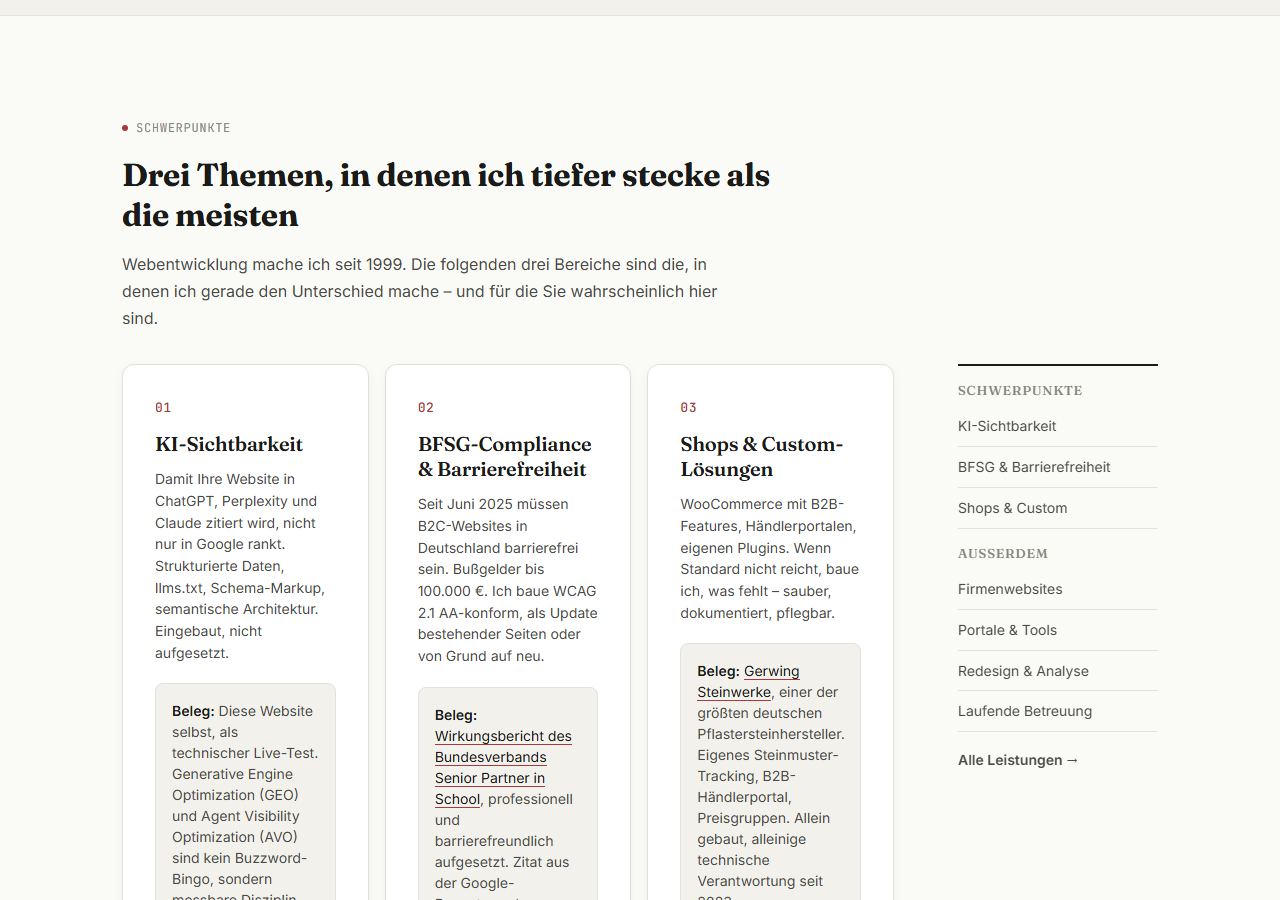
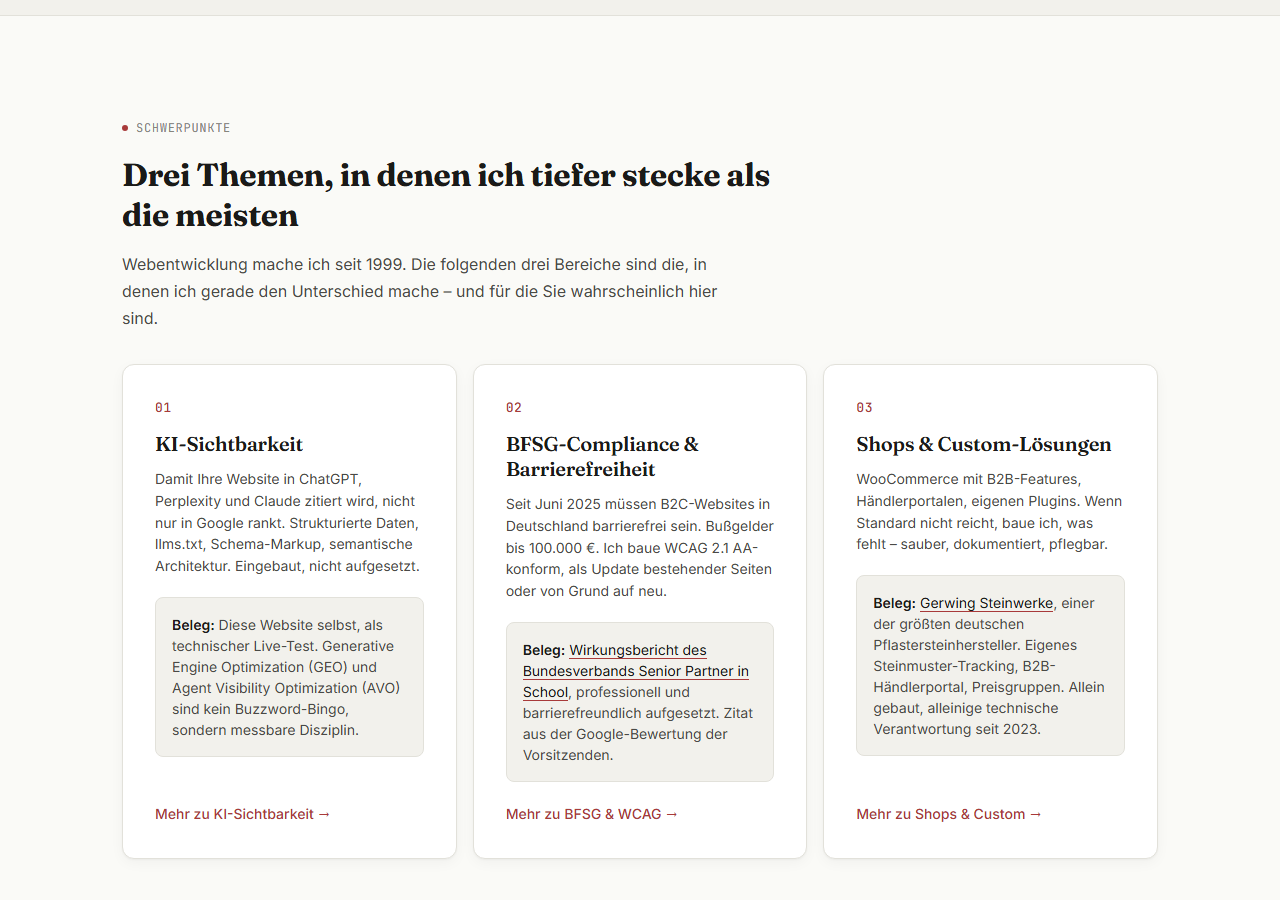
fix(focus): Schwerpunkte-Layout entzerrt, Cards in voller Drittel-Breite (Issue #24)
Layout-Defizit aus QA-Vergleich Issue #18 / Finding F2 behoben.

Vorher: 4-Spalten-Layout (3 Focus-Cards + Sticky-Sidebar .services-quicknav rechts).
Cards à ~246 px bei 1280 px Breite, Body-Copy gequetscht.

Nachher (analog Claude-Referenz):
- 3 Focus-Cards in voller Drittel-Breite (~395 px bei 1280 px)
- Neuer Block .services-extras unter den Cards (2 Spalten):
  - links: "Außerdem"-Quicknav (4 Sub-Themen + "Alle Leistungen")
  - rechts: "Standard bei jedem Projekt" als saubere Liste
- Quicknav-Teil "Schwerpunkte" entfernt (war redundant zu den Cards selbst)
- Standards von Pill-Strip auf vertikale Liste umgestellt
- Mobile (≤768): Extras-Block stapelt auf 1 Spalte

Geprüft:
- DE und EN parallel umgestellt (index.html, en/index.html)
- design-reference-compare-Spec für #leistungen grün
- Neue Regression-Spec tests/focus-extras-check.spec.ts: 2 Tests grün
  (Layout-Struktur, Card-Breiten ≥ 300 px, Mobile-Stacking)
- focus-actual.png aktualisiert

Changed region(s): [[0.125, 0.4667, 0.875, 1.0], [0.6875, 0.6533, 0.875, 0.8711], [0.75, 0.4044, 0.8438, 0.4356]]

diff --git a/tests/focus-extras-check.spec.ts b/tests/focus-extras-check.spec.ts
@@ -1,0 +1,76 @@
+import { test, expect } from '@playwright/test';
+
+test.use({ viewport: { width: 1280, height: 1400 } });
+
+test('focus-extras-block rendert mit 2 Spalten und korrekten Inhalten', async ({ page }) => {
+  await page.addInitScript(() => {
+    const mark = () => {
+      document.querySelectorAll('.services-intro h2').forEach(h => {
+        (h as HTMLElement).dataset.typed = '1';
+      });
+    };
+    document.addEventListener('DOMContentLoaded', mark);
+  });
+  await page.goto('http://localhost:5500/index.html', { waitUntil: 'networkidle' });
+  await page.evaluate(() => {
+    document.documentElement.classList.remove('funnel-active');
+    const f = document.getElementById('funnel');
+    if (f) (f as HTMLElement).style.display = 'none';
+    const reopen = document.getElementById('funnel-reopen');
+    if (reopen) (reopen as HTMLElement).hidden = true;
+    document.querySelectorAll('.focus-card,.focus-grid,.services-extras').forEach(el => el.classList.add('is-visible'));
+  });
+
+  const extras = page.locator('.services-extras');
+  await expect(extras).toBeVisible();
+
+  // 2 Kindelemente: nav.services-quicknav + div.standards-strip
+  const children = extras.locator('> *');
+  await expect(children).toHaveCount(2);
+  await expect(extras.locator('.services-quicknav')).toBeVisible();
+  await expect(extras.locator('.standards-strip')).toBeVisible();
+
+  // Quicknav enthaelt 4 "Ausserdem"-Links + 1 "Alle Leistungen"-Link
+  await expect(extras.locator('.services-quicknav h3')).toHaveText('Außerdem');
+  await expect(extras.locator('.services-quicknav a')).toHaveCount(5);
+
+  // Standards-Liste mit 5 Items
+  await expect(extras.locator('.standards-list li')).toHaveCount(5);
+
+  // Layout-Check: extras-Block hat 2 Spalten (Quicknav links, Standards rechts)
+  const navBox = await extras.locator('.services-quicknav').boundingBox();
+  const stdBox = await extras.locator('.standards-strip').boundingBox();
+  expect(navBox && stdBox).toBeTruthy();
+  expect((stdBox!.x)).toBeGreaterThan(navBox!.x + navBox!.width / 2);
+
+  // Cards: 3 gleichbreite Spalten
+  const cards = page.locator('.focus-card');
+  await expect(cards).toHaveCount(3);
+  const widths = await Promise.all([0,1,2].map(async i => (await cards.nth(i).boundingBox())!.width));
+  // alle Cards in 5px Toleranz gleich breit
+  expect(Math.max(...widths) - Math.min(...widths)).toBeLessThan(5);
+  // Cards mindestens 300px breit (Anti-Pattern)
+  expect(widths[0]).toBeGreaterThan(300);
+
+});
+
+test('focus-extras-block stapelt mobil', async ({ page }) => {
+  await page.setViewportSize({ width: 600, height: 1400 });
+  await page.goto('http://localhost:5500/index.html', { waitUntil: 'networkidle' });
+  await page.evaluate(() => {
+    document.documentElement.classList.remove('funnel-active');
+    const f = document.getElementById('funnel');
+    if (f) (f as HTMLElement).style.display = 'none';
+  });
+  const extras = page.locator('.services-extras');
+  const navBox = await extras.locator('.services-quicknav').boundingBox();
+  const stdBox = await extras.locator('.standards-strip').boundingBox();
+  // gestapelt: Standards liegen UNTER Quicknav (y groesser)
+  expect(stdBox!.y).toBeGreaterThan(navBox!.y + navBox!.height - 10);
+
+  // Cards 1-Spalt
+  const cards = page.locator('.focus-card');
+  const c0 = await cards.nth(0).boundingBox();
+  const c1 = await cards.nth(1).boundingBox();
+  expect(c1!.y).toBeGreaterThan(c0!.y + c0!.height - 10);
+});

diff --git a/css/sections.css b/css/sections.css
@@ -235,33 +235,30 @@
 .services-intro h2 { margin-bottom: var(--space-md); }
 .services-intro p { color: var(--color-text-secondary); }
 
-.services-layout {
+.services-extras {
   display: grid;
-  grid-template-columns: 1fr 200px;
+  grid-template-columns: 1fr 1fr;
   gap: var(--space-3xl);
-  align-items: start;
+  margin-top: var(--space-2xl);
+  padding: var(--space-xl);
+  background: var(--color-bg-card);
+  border: 1px solid var(--color-border);
+  border-radius: 12px;
 }
 
-.services-quicknav {
-  position: sticky;
-  top: 80px;
-  border-top: 2px solid var(--color-text);
-  padding-top: var(--space-md);
-  display: flex;
-  flex-direction: column;
-}
-
-.services-quicknav h3 {
+.services-extras > * > h3 {
   font-size: var(--text-xs);
   text-transform: uppercase;
   letter-spacing: 0.06em;
   color: var(--color-text-light);
-  margin-bottom: var(--space-xs);
-  margin-top: var(--space-md);
+  margin: 0 0 var(--space-md);
   font-weight: 500;
 }
 
-.services-quicknav h3:first-child { margin-top: 0; }
+.services-quicknav {
+  display: flex;
+  flex-direction: column;
+}
 
 .services-quicknav a {
   font-size: var(--text-sm);
@@ -278,6 +275,7 @@
   border-bottom: none !important;
   margin-top: var(--space-xs);
   font-weight: 600;
+  color: var(--color-text) !important;
 }
 
 .services-section-heading {
@@ -287,27 +285,22 @@
 
 .services-section-heading:first-of-type { margin-top: 0; }
 
-.standards-strip {
+.standards-list {
+  list-style: none;
+  margin: 0;
+  padding: 0;
   display: flex;
-  flex-wrap: wrap;
-  justify-content: center;
-  gap: var(--space-sm);
-  margin-top: var(--space-2xl);
-  padding-top: var(--space-lg);
-  border-top: 1px solid var(--color-border);
+  flex-direction: column;
 }
 
-.standard-item {
-  font-size: var(--text-xs);
+.standards-list li {
+  font-size: var(--text-sm);
   color: var(--color-text-secondary);
-  background: var(--color-bg-alt);
-  padding: var(--space-xs) var(--space-sm);
-  border-radius: 100px;
-  border: 1px solid var(--color-border);
+  padding: var(--space-xs) 0;
+  border-bottom: 1px solid var(--color-border);
 }
 
-.standard-item a { color: inherit; text-decoration: none; }
-.standard-item a:hover { color: var(--color-accent); }
+.standards-list li:last-child { border-bottom: none; }
 
 /* --- Projects Section --- */
 .projects-section {
@@ -832,13 +825,10 @@ body:has(.darkmode-checkbox-mobile:checked) .client-logos-grid img {
   .hero-typewriter { min-height: 4.2em; }
   .hero-lead { font-size: var(--text-base); }
 
-  .services-layout { grid-template-columns: 1fr; }
-
-  .services-quicknav {
-    position: static;
-    border-top: 1px solid var(--color-border);
-    margin-top: var(--space-xl);
-    padding-top: var(--space-lg);
+  .services-extras {
+    grid-template-columns: 1fr;
+    gap: var(--space-xl);
+    padding: var(--space-lg);
   }
 
   .about-content { grid-template-columns: 100px 1fr; }

diff --git a/index.html b/index.html
@@ -277,7 +277,6 @@
           <h2>Drei Themen, in denen ich tiefer stecke als die meisten</h2>
           <p>Webentwicklung mache ich seit 1999. Die folgenden drei Bereiche sind die, in denen ich gerade den Unterschied mache – und für die Sie wahrscheinlich hier sind.</p>
         </div>
-        <div class="services-layout">
         <div class="focus-grid">
           <article class="focus-card" id="svc-ki">
             <div class="focus-num">01</div>
@@ -301,26 +300,25 @@
             <a href="leistungen/shops-und-custom/" class="focus-link">Mehr zu Shops &amp; Custom <span class="arr">→</span></a>
           </article>
         </div>
-        <nav class="services-quicknav">
-          <h3>Schwerpunkte</h3>
-          <a href="#svc-ki">KI-Sichtbarkeit</a>
-          <a href="#svc-bfsg">BFSG &amp; Barrierefreiheit</a>
-          <a href="#svc-shops">Shops &amp; Custom</a>
-          <h3>Außerdem</h3>
-          <a href="leistungen/#firmenwebsite">Firmenwebsites</a>
-          <a href="leistungen/#portal">Portale &amp; Tools</a>
-          <a href="leistungen/#redesign">Redesign &amp; Analyse</a>
-          <a href="leistungen/#betreuung-basis">Laufende Betreuung</a>
-          <a href="leistungen/" class="services-quicknav-all">Alle Leistungen →</a>
-        </nav>
-        </div>
-        <div class="standards-strip">
-          <div class="standard-item"><strong>Standard bei jedem Projekt:</strong></div>
-          <div class="standard-item">DSGVO-konform</div>
-          <div class="standard-item">Responsive Design</div>
-          <div class="standard-item">Offene Standards</div>
-          <div class="standard-item">Performance-optimiert</div>
-          <div class="standard-item">Lektorat (Annemarie Andersen)</div>
+        <div class="services-extras">
+          <nav class="services-quicknav" aria-label="Weitere Leistungen">
+            <h3>Außerdem</h3>
+            <a href="leistungen/#firmenwebsite">Firmenwebsites</a>
+            <a href="leistungen/#portal">Portale &amp; Tools</a>
+            <a href="leistungen/#redesign">Redesign &amp; Analyse</a>
+            <a href="leistungen/#betreuung-basis">Laufende Betreuung</a>
+            <a href="leistungen/" class="services-quicknav-all">Alle Leistungen →</a>
+          </nav>
+          <div class="standards-strip">
+            <h3>Standard bei jedem Projekt</h3>
+            <ul class="standards-list">
+              <li>DSGVO-konform</li>
+              <li>Responsive Design</li>
+              <li>Offene Standards</li>
+              <li>Performance-optimiert</li>
+              <li>Lektorat (Annemarie Andersen)</li>
+            </ul>
+          </div>
         </div>
         <p class="section-cta"><a href="leistungen/" class="btn btn-secondary">Alle Leistungen</a> <span class="section-cta-or">oder <a href="#projekte">Projekte ansehen</a></span></p>
       </div>

diff --git a/en/index.html b/en/index.html
@@ -277,7 +277,6 @@
           <h2>Three areas where I go deeper than most</h2>
           <p>I've been building web projects since 1999. These three areas are where I currently make the difference – and probably why you're here.</p>
         </div>
-        <div class="services-layout">
         <div class="focus-grid">
           <article class="focus-card" id="svc-ki">
             <div class="focus-num">01</div>
@@ -301,26 +300,25 @@
             <a href="services/shops-and-custom/" class="focus-link">More on Shops &amp; Custom <span class="arr">→</span></a>
           </article>
         </div>
-        <nav class="services-quicknav">
-          <h3>Focus areas</h3>
-          <a href="#svc-ki">AI Visibility</a>
-          <a href="#svc-bfsg">BFSG &amp; Accessibility</a>
-          <a href="#svc-shops">Shops &amp; Custom</a>
-          <h3>Also</h3>
-          <a href="services/#company-website">Corporate Websites</a>
-          <a href="services/#portal">Portals &amp; Tools</a>
-          <a href="services/#redesign">Redesign &amp; Analysis</a>
-          <a href="services/#maintenance-basic">Ongoing Maintenance</a>
-          <a href="services/" class="services-quicknav-all">All services →</a>
-        </nav>
-        </div>
-        <div class="standards-strip">
-          <div class="standard-item"><strong>Standard on every project:</strong></div>
-          <div class="standard-item">GDPR-compliant</div>
-          <div class="standard-item">Responsive Design</div>
-          <div class="standard-item">Open Standards</div>
-          <div class="standard-item">Performance-optimized</div>
-          <div class="standard-item">Proofreading (Annemarie Andersen)</div>
+        <div class="services-extras">
+          <nav class="services-quicknav" aria-label="More services">
+            <h3>Also</h3>
+            <a href="services/#company-website">Corporate Websites</a>
+            <a href="services/#portal">Portals &amp; Tools</a>
+            <a href="services/#redesign">Redesign &amp; Analysis</a>
+            <a href="services/#maintenance-basic">Ongoing Maintenance</a>
+            <a href="services/" class="services-quicknav-all">All services →</a>
+          </nav>
+          <div class="standards-strip">
+            <h3>Standard on every project</h3>
+            <ul class="standards-list">
+              <li>GDPR-compliant</li>
+              <li>Responsive Design</li>
+              <li>Open Standards</li>
+              <li>Performance-optimized</li>
+              <li>Proofreading (Annemarie Andersen)</li>
+            </ul>
+          </div>
         </div>
         <p class="section-cta"><a href="services/" class="btn btn-secondary">All Services</a> <span class="section-cta-or">or <a href="#projects">view projects</a></span></p>
       </div>
